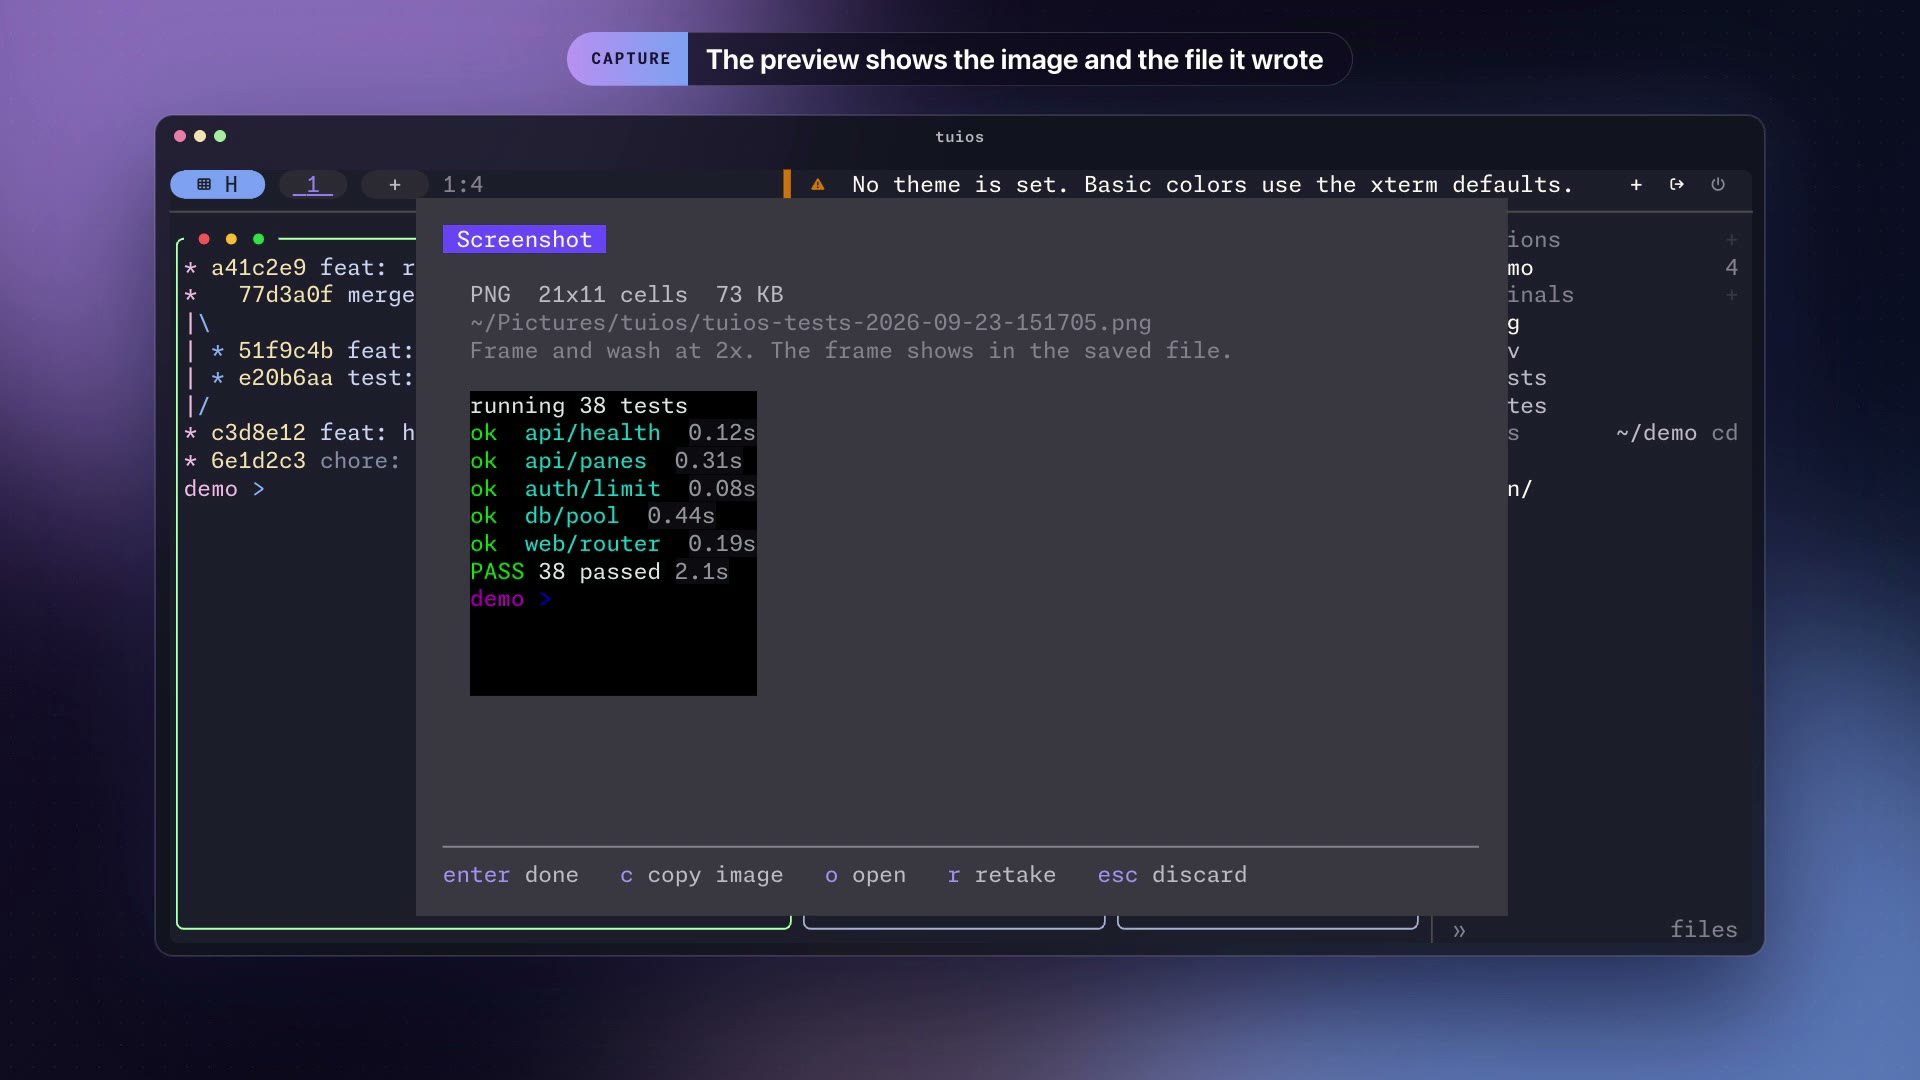
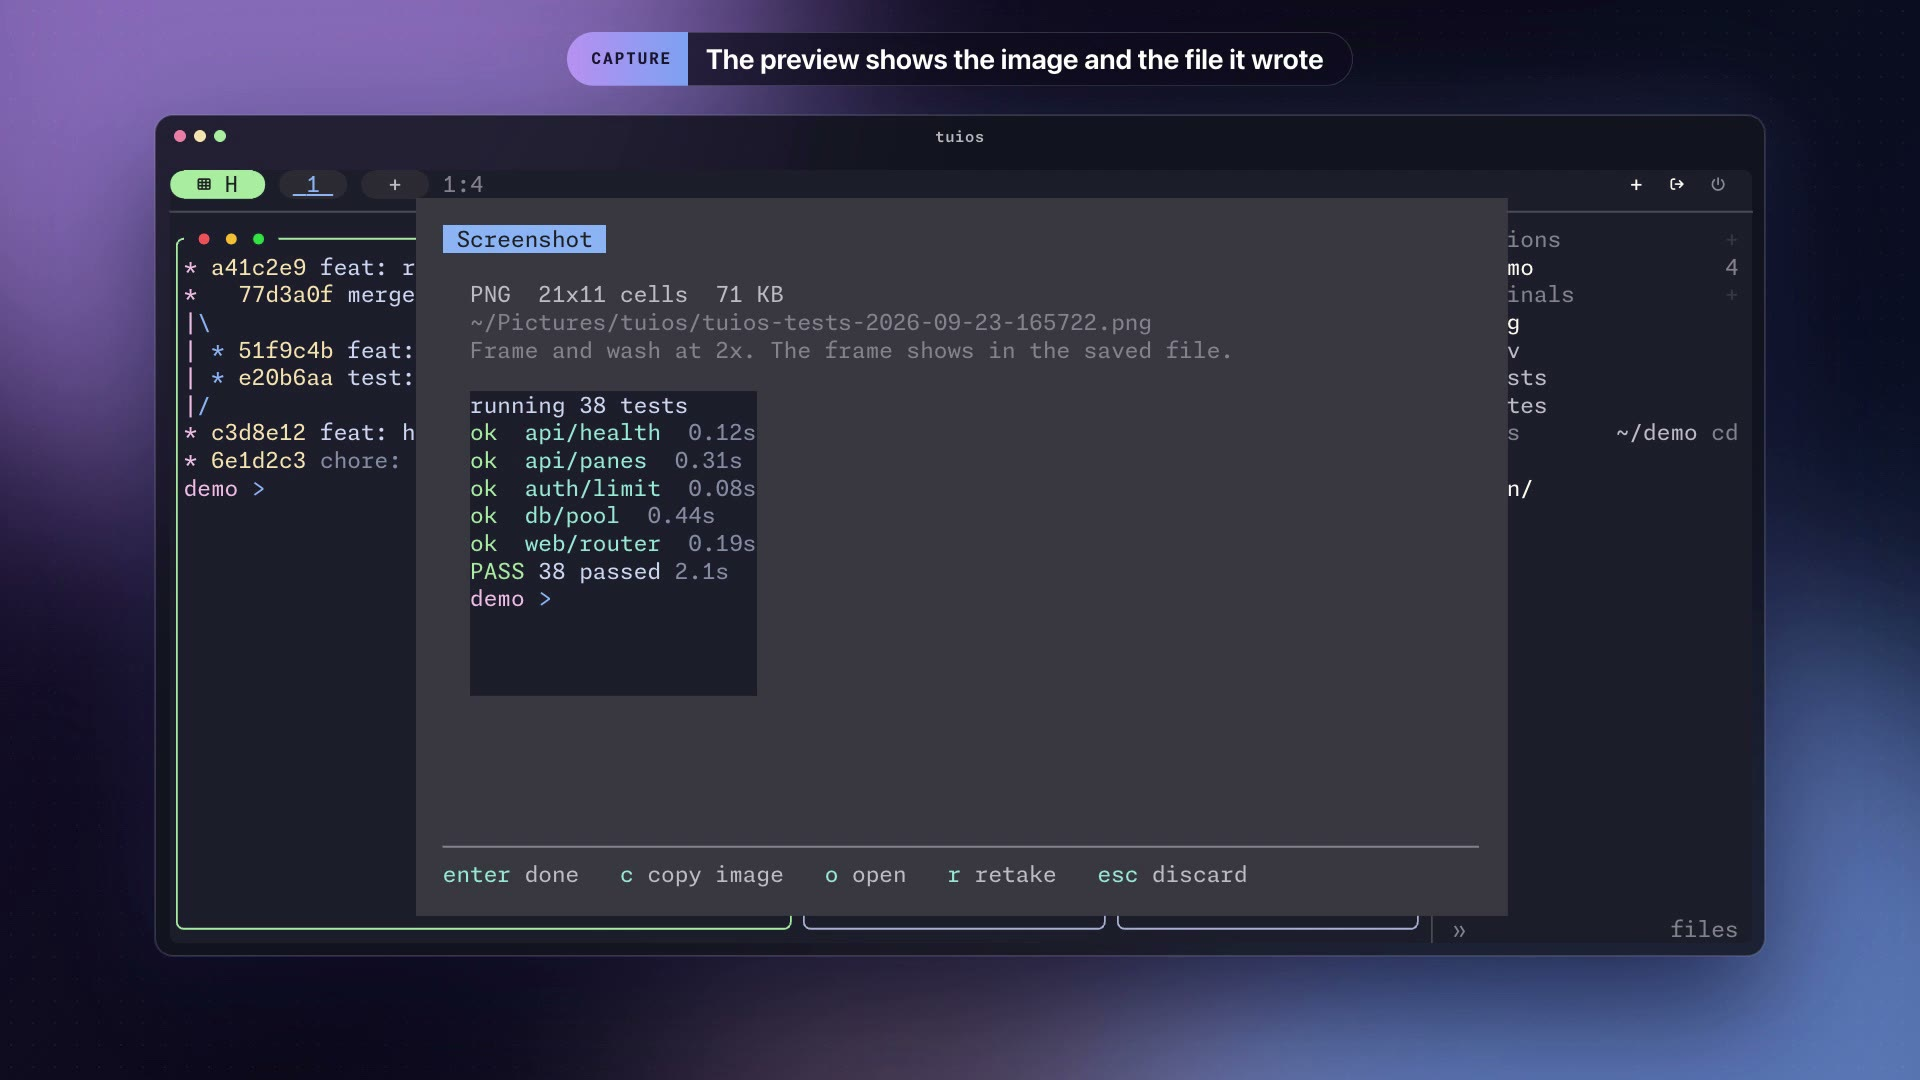
feat(mdx): show the portrait cut of a release clip on narrow screens
The landscape clips draw a 116 column terminal, which cannot be read at
phone width. Below 640px ReleaseClip now plays <src>-vertical.mp4 with its
own poster. The portrait cuts of all 12 clips are added.

The rail and screenshot clips are re-rendered: the rail pane now has a
name and a shell that sends OSC 7, and the screenshot take sets a theme so
the dock shows no "No theme is set" notice. The tiling and rail portrait
cuts get their own camera so the text is close enough to read.

diff --git a/components/mdx/release-clip.tsx b/components/mdx/release-clip.tsx
@@ -4,6 +4,9 @@ import { Pause, Play } from "lucide-react";
 import { useEffect, useId, useRef, useState } from "react";
 import { cn } from "@/lib/cn";
 
+/** Below this width the portrait cut replaces the landscape one. */
+const NARROW = "(max-width: 639px)";
+
 /**
  * A recorded clip of tuios for a release note. `src` is the clip's path
  * without an extension: the component expects `src.webm`, `src.mp4` and the
@@ -18,6 +21,10 @@ import { cn } from "@/lib/cn";
  *   than five seconds needs a way to stop it.
  * - `steps` is the text of what the clip shows, one line per caption, so a
  *   reader who cannot see or play the video gets the same content.
+ * - On a narrow screen it shows the portrait cut instead, `src-vertical.mp4`
+ *   with the poster `src-vertical.jpg`. The landscape cut draws a 116 column
+ *   terminal, which at phone width is too small to read; the portrait cut
+ *   follows the action with a closer camera.
  */
 export function ReleaseClip({
   src,
@@ -38,12 +45,21 @@ export function ReleaseClip({
   const [wanted, setWanted] = useState<boolean | null>(null);
   const [reduced, setReduced] = useState(false);
   const [visible, setVisible] = useState(false);
+  const [narrow, setNarrow] = useState(false);
   const stepsId = useId();
 
   useEffect(() => {
     const query = window.matchMedia("(prefers-reduced-motion: reduce)");
     setReduced(query.matches);
     const onChange = () => setReduced(query.matches);
+    query.addEventListener("change", onChange);
+    return () => query.removeEventListener("change", onChange);
+  }, []);
+
+  useEffect(() => {
+    const query = window.matchMedia(NARROW);
+    setNarrow(query.matches);
+    const onChange = () => setNarrow(query.matches);
     query.addEventListener("change", onChange);
     return () => query.removeEventListener("change", onChange);
   }, []);
@@ -79,15 +95,22 @@ export function ReleaseClip({
     };
   }, []);
 
-  // A video element does not notice sources added after it mounted, so load
-  // them by hand once they are attached.
+  // A video element does not notice sources added or swapped after it
+  // mounted, so load them by hand once they are attached or the cut changes.
+  // data-cut records which cut is loaded. A reload stops playback; the effect
+  // below starts it again.
+  const cut = narrow ? "portrait" : "landscape";
   useEffect(() => {
-    if (near) videoRef.current?.load();
-  }, [near]);
+    const video = videoRef.current;
+    if (!video || !near || video.dataset.cut === cut) return;
+    video.dataset.cut = cut;
+    video.load();
+  }, [near, cut]);
 
   useEffect(() => {
     const video = videoRef.current;
-    if (!video || !near) return;
+    // Wait for the effect above to load the cut this render asks for.
+    if (!video || !near || video.dataset.cut !== cut) return;
     const shouldPlay = visible && (wanted ?? !reduced);
     if (shouldPlay && video.paused) {
       video.play().catch(() => {
@@ -97,7 +120,7 @@ export function ReleaseClip({
     } else if (!shouldPlay && !video.paused) {
       video.pause();
     }
-  }, [near, visible, wanted, reduced]);
+  }, [near, visible, wanted, reduced, cut]);
 
   const toggle = () => {
     const video = videoRef.current;
@@ -111,10 +134,13 @@ export function ReleaseClip({
       <div className="group relative overflow-hidden rounded-xl border border-fd-border bg-[#11111b] shadow-lg shadow-fd-primary/5">
         <video
           ref={videoRef}
-          className="block aspect-video h-auto w-full"
-          poster={`${src}.jpg`}
-          width={1920}
-          height={1080}
+          className={cn(
+            "block h-auto w-full",
+            narrow ? "aspect-[9/16]" : "aspect-video",
+          )}
+          poster={narrow ? `${src}-vertical.jpg` : `${src}.jpg`}
+          width={narrow ? 1080 : 1920}
+          height={narrow ? 1920 : 1080}
           muted
           loop
           playsInline
@@ -124,7 +150,10 @@ export function ReleaseClip({
           onPlay={() => setPlaying(true)}
           onPause={() => setPlaying(false)}
         >
-          {near ? (
+          {near && narrow ? (
+            <source src={`${src}-vertical.mp4`} type="video/mp4" />
+          ) : null}
+          {near && !narrow ? (
             <>
               <source src={`${src}.webm`} type="video/webm" />
               <source src={`${src}.mp4`} type="video/mp4" />
